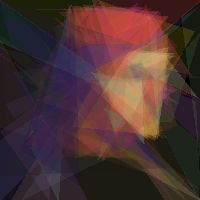
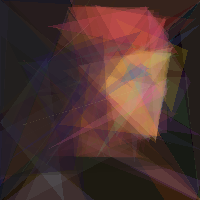
generation progress

diff --git a/main.py b/main.py
@@ -165,7 +165,7 @@ def evolve(population, generation, max_generations, *args):
     Returns:
         Population: The evolved population
     """
-    start_rate = 0.7  # The initial mutation rate
+    start_rate = 0.9  # The initial mutation rate
     end_rate = 0.01  # The final mutation rate
     # Calculate the mutation rate for the current generation
     rate = start_rate * (1 - (generation / max_generations)) + end_rate * (generation / max_generations)
